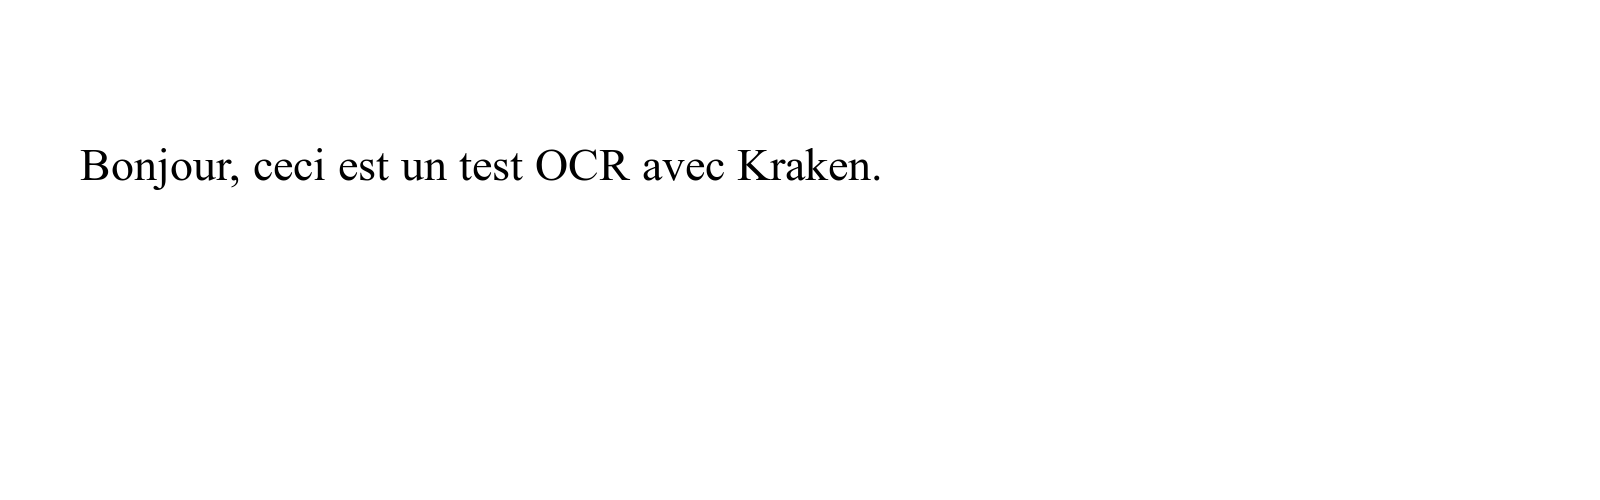
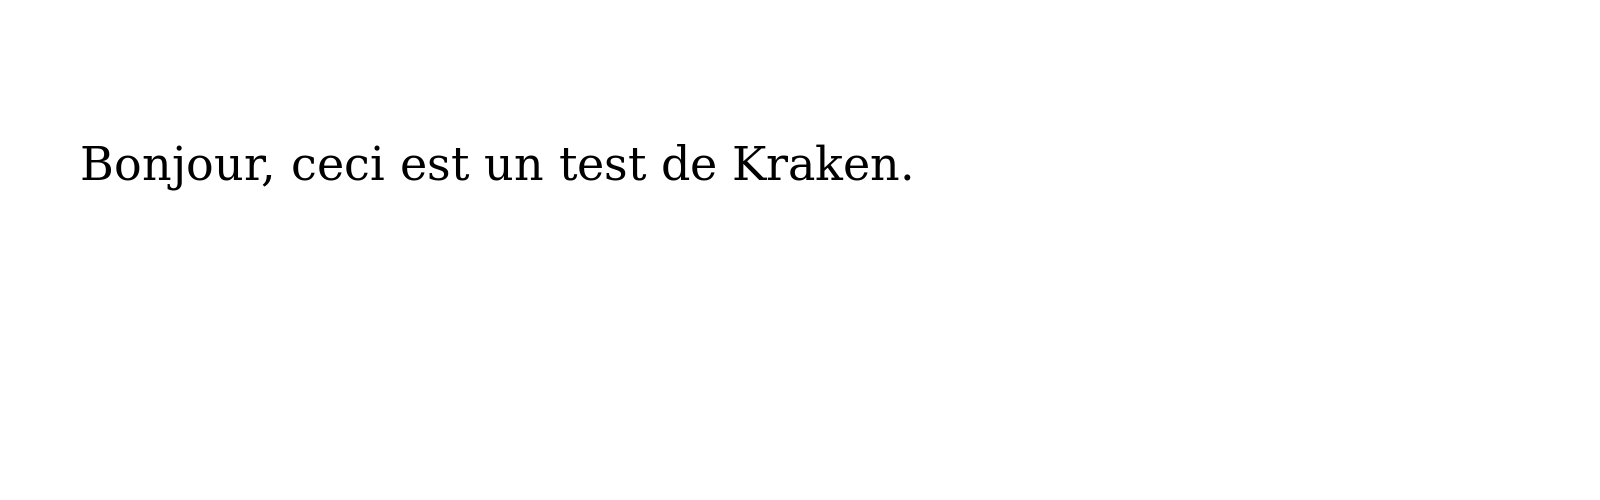
Update Kraken OCR tool configuration and testing files
- Enhance README with additional testing commands for planemo.
- Update kraken-ocr.xml to improve tool description and requirements.
- Remove obsolete ocr-models.loc.sample file and add new sample files.
- Add macros.xml for versioning and creator information.
- Update test data images and configurations.

Changed region(s): [[0.0312, 0.3, 0.5625, 0.39]]

diff --git a/tools/htr/kraken-ocr/README.md b/tools/htr/kraken-ocr/README.md
@@ -1,3 +1,7 @@
 ## How to test it with planemo serve
 planemo serve --galaxy_root /Volumes/Dev/galaxy/galaxy-instance --skip_client_build tools/htr/kraken-ocr/kraken-ocr.xml --docker
 
+planemo serve --galaxy_root /home/ivo/projects/ufr/galaxy/galaxy-instance --skip_client_build tools/htr/kraken-ocr/kraken-ocr.xml --docker --docker_run_extra_arguments "-e USER=galaxy"
+
+
+planemo test --galaxy_root /home/ivo/projects/ufr/galaxy/galaxy-instance --docker --docker_run_extra_arguments "-e USER=galaxy"